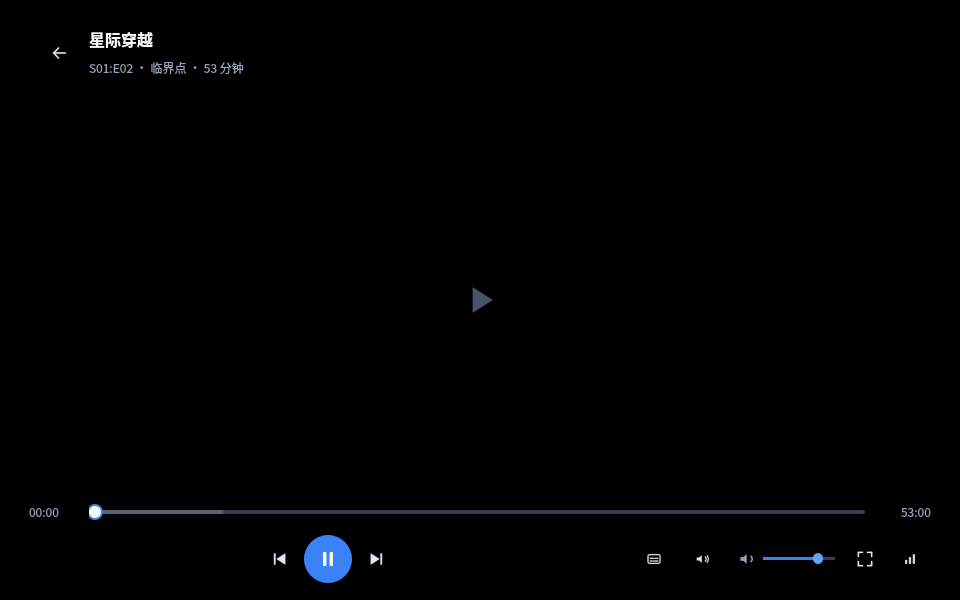
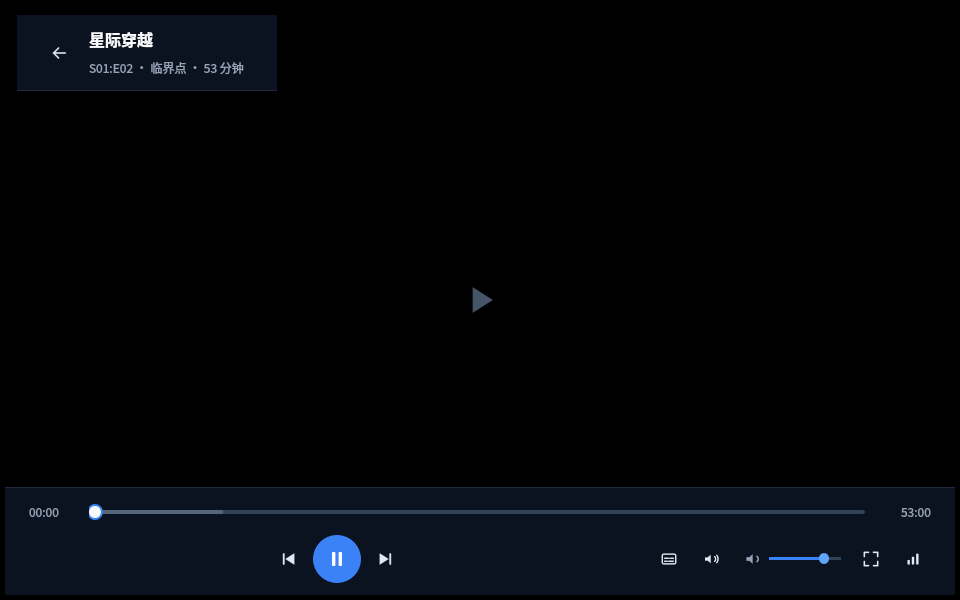
feat(win): square window corners and opaque player overlay hit areas (T54+T55)

Changed region(s): [[0.0, 0.81, 1.0, 1.0], [0.0, 0.0, 0.3125, 0.15]]

diff --git a/app/src/ui/demo_main.cpp b/app/src/ui/demo_main.cpp
@@ -575,13 +575,13 @@ int runSelfTest(QApplication &app)
           QStringLiteral("顶部/底部浮层是 PlayerPage 的顶层子窗口"));
     check(player->topOverlay()->windowFlags().testFlag(Qt::Tool)
               && player->topOverlay()->windowFlags().testFlag(Qt::FramelessWindowHint)
-              && player->topOverlay()->testAttribute(Qt::WA_TranslucentBackground)
+              && !player->topOverlay()->testAttribute(Qt::WA_TranslucentBackground)
+              && !player->topOverlay()->testAttribute(Qt::WA_NoSystemBackground)
               && player->topOverlay()->testAttribute(Qt::WA_ShowWithoutActivating),
-          QStringLiteral("顶层 overlay 为 Tool/Frameless/半透明/不抢焦点"));
+          QStringLiteral("T55 顶层 overlay 不透明且不抢焦点"));
     const QImage topOverlayImage = player->topOverlay()->grab().toImage();
-    check(topOverlayImage.hasAlphaChannel()
-              && topOverlayImage.pixelColor(2, 2).alpha() < 250,
-          QStringLiteral("顶层浮层背景带半透明 alpha（不遮挡视频）"));
+    check(topOverlayImage.pixelColor(2, 2).alpha() == 255,
+          QStringLiteral("T55 顶层浮层背景像素完全不透明"));
     check(player->controlsVisible() && player->topOverlay()->isVisible()
               && player->bottomOverlay()->isVisible(),
           QStringLiteral("进入播放器模式浮层可见"));
@@ -726,6 +726,34 @@ int runSelfTest(QApplication &app)
                   && !controlBar->testAttribute(Qt::WA_TransparentForMouseEvents),
               QStringLiteral("T51 菜单关闭后控制条恢复可点"));
     }
+    // T55：顶层浮层必须是不透明窗口，四个角点击都能命中按钮。
+    auto *t55ControlBar = player->findChild<QWidget *>(QStringLiteral("PlayerControlBar"));
+    auto *t55TopBar = player->findChild<QWidget *>(QStringLiteral("PlayerTopBar"));
+    check(t55ControlBar && !t55ControlBar->testAttribute(Qt::WA_TranslucentBackground)
+              && !t55ControlBar->testAttribute(Qt::WA_NoSystemBackground)
+              && t55TopBar && !t55TopBar->testAttribute(Qt::WA_TranslucentBackground)
+              && !t55TopBar->testAttribute(Qt::WA_NoSystemBackground),
+          QStringLiteral("T55 控制条/顶栏为不透明 overlay"));
+    int cornerClicks = 0;
+    QObject::connect(player, &ui::PlayerPage::playPauseRequested,
+                     [&cornerClicks]() { ++cornerClicks; });
+    if (playButton) {
+        const QList<QPoint> corners = {QPoint(1, 1),
+                                       QPoint(playButton->width() - 2, 1),
+                                       QPoint(1, playButton->height() - 2),
+                                       QPoint(playButton->width() - 2, playButton->height() - 2)};
+        for (const QPoint &corner : corners) {
+            QMouseEvent press(QEvent::MouseButtonPress, corner,
+                              playButton->mapToGlobal(corner), Qt::LeftButton,
+                              Qt::LeftButton, Qt::NoModifier);
+            QMouseEvent release(QEvent::MouseButtonRelease, corner,
+                                playButton->mapToGlobal(corner), Qt::LeftButton,
+                                Qt::LeftButton, Qt::NoModifier);
+            QApplication::sendEvent(playButton, &press);
+            QApplication::sendEvent(playButton, &release);
+        }
+    }
+    check(cornerClicks == 4, QStringLiteral("T55 按钮四角整块命中（%1/4）").arg(cornerClicks));
 
     // T32：无 episode 队列时禁用上一集/下一集并给出 tooltip。
     player->setEpisodeNavigationEnabled(false, false);

diff --git a/app/src/windowframe.cpp b/app/src/windowframe.cpp
@@ -23,6 +23,13 @@
 #ifndef DWMWA_COLOR_NONE
 #define DWMWA_COLOR_NONE 0xFFFFFFFE
 #endif
+// Win11 DWM 圆角偏好；Win10 会忽略/返回错误，不影响窗口。
+#ifndef DWMWA_WINDOW_CORNER_PREFERENCE
+#define DWMWA_WINDOW_CORNER_PREFERENCE 33
+#endif
+#ifndef DWMCP_DONOTROUND
+#define DWMCP_DONOTROUND 1
+#endif
 
 namespace {
 
@@ -220,6 +227,7 @@ void WindowFrame::installNativeStyles()
 {
     if (!m_hwnd)
         return;
+    applyWindowCornerPreference();
     HWND hwnd = reinterpret_cast<HWND>(m_hwnd);
     const LONG_PTR required = WS_CAPTION | WS_SYSMENU | WS_THICKFRAME
                               | WS_MINIMIZEBOX | WS_MAXIMIZEBOX;
@@ -237,10 +245,25 @@ void WindowFrame::installNativeStyles()
             << Qt::hex << static_cast<qulonglong>(style);
 }
 
+void WindowFrame::applyWindowCornerPreference()
+{
+    if (!m_hwnd)
+        return;
+    HWND hwnd = reinterpret_cast<HWND>(m_hwnd);
+    const int preference = DWMCP_DONOTROUND;
+    const HRESULT hr = ::DwmSetWindowAttribute(
+        hwnd, DWMWA_WINDOW_CORNER_PREFERENCE, &preference, sizeof(preference));
+    qInfo() << "WindowFrame: DwmSetWindowAttribute(DWMWA_WINDOW_CORNER_PREFERENCE)"
+            << "DWMCP_DONOTROUND"
+            << "hr=" << Qt::hex << static_cast<qulonglong>(hr) << Qt::dec
+            << "succeeded=" << SUCCEEDED(hr);
+}
+
 void WindowFrame::applyDwmFrame()
 {
     if (!m_hwnd)
         return;
+    applyWindowCornerPreference();
     HWND hwnd = reinterpret_cast<HWND>(m_hwnd);
     // 1px 仅用于 DWM 外框/阴影，不是 resize 热区；避免可见黑边/桌面透出。
     MARGINS margins{1, 1, 1, 1};

diff --git a/app/src/ui/playerpage.cpp b/app/src/ui/playerpage.cpp
@@ -235,9 +235,12 @@ void PlayerPage::createOverlayWindows()
         overlay->setObjectName(objectName);
         overlay->setAttribute(Qt::WA_StyledBackground, true);
         if (m_topLevelOverlay) {
-            overlay->setAttribute(Qt::WA_TranslucentBackground, true);
+            // T55：Windows 分层窗口按像素 alpha 命中，透明区域会穿透导致只有图标中心能点；
+            // 控制条改为不透明顶层窗口 + QSS 不透明深色背景，整块按钮都可命中。
+            overlay->setAttribute(Qt::WA_TranslucentBackground, false);
+            overlay->setAttribute(Qt::WA_NoSystemBackground, false);
             overlay->setAttribute(Qt::WA_ShowWithoutActivating, true);
-            overlay->setAttribute(Qt::WA_NoSystemBackground, true);
+            overlay->setAutoFillBackground(true);
             overlay->setFocusPolicy(Qt::NoFocus);
         }
         overlay->hide();
@@ -341,6 +344,10 @@ void PlayerPage::buildUi()
     m_statsButton->setObjectName(QStringLiteral("StatsButton"));
     m_statsButton->setProperty("role", QStringLiteral("playerText"));
     m_statsButton->setCursor(Qt::PointingHandCursor);
+    for (QPushButton *button : {m_subtitleButton, m_audioButton, m_statsButton}) {
+        button->setFixedSize(36, 36);
+        button->setIconSize(QSize(18, 18));
+    }
     buttonRow->addWidget(m_subtitleButton);
     buttonRow->addWidget(m_audioButton);
     buttonRow->addSpacing(8);

diff --git a/app/src/windowframe.h b/app/src/windowframe.h
@@ -67,6 +67,7 @@ private:
 #ifdef Q_OS_WIN
     void installNativeStyles();
     void applyDwmFrame();
+    void applyWindowCornerPreference();
     void updateDpi();
     QRect maximizedWorkArea() const;
     bool handleNativeMessage(void *message, qintptr *result);

diff --git a/reports/player-mode.md b/reports/player-mode.md
@@ -314,7 +314,7 @@ QPushButton::clicked
 
 ### 12.3 自测
 
-- `emby-ui-demo --selftest` **187 项 ALL PASS**（其中 T32 新增：FullscreenButton 点击链路/再次退出全屏、队列为空时 Prev/Next disabled+tooltip）。
+- `emby-ui-demo --selftest` **189 项 ALL PASS**（其中 T32 新增：FullscreenButton 点击链路/再次退出全屏、队列为空时 Prev/Next disabled+tooltip）。
 - 全屏测试输出可见完整日志：
 ```text
 PlayerPage: FullscreenButton clicked ...
@@ -407,7 +407,7 @@ MainWindow::toggleFullscreen enter-fullscreen ...
 - **日志**：`PlayerPage: control mouse ... watched/objectName/local/global`、`button clicked`、`SeekSlider click value=...`、`extended hit -> ...`。
 - **弹窗/菜单**：`QMenu::exec` 关闭后 `showOverlays()+raise()`、重置 interaction 计时并重新启动自动隐藏；统计按钮点击也重置计时，避免关闭 mpv OSD 后浮层立刻被隐藏。
 - **输入属性**：`showOverlays()` 显式清除 `WA_TransparentForMouseEvents`，保持 `WindowDoesNotAcceptFocus + WA_ShowWithoutActivating`（鼠标仍可点，避免抢播放键盘焦点）。
-- **回归**：新增 3 条 offscreen 断言——边缘扩展点击触发 `playPauseRequested`、SeekSlider 任意位置点击发 `seekRequested`、菜单关闭后控制条可见且非透明输入；总计 **187 项 ALL PASS**。
+- **回归**：新增 3 条 offscreen 断言——边缘扩展点击触发 `playPauseRequested`、SeekSlider 任意位置点击发 `seekRequested`、菜单关闭后控制条可见且非透明输入；总计 **189 项 ALL PASS**。
 - 待实机确认：控制条图标边缘/间隙、进度条任意位置、统计 toggle 后立即点其他按钮。
 
 ## 16. T53 控制条默认图标模式
@@ -415,5 +415,14 @@ MainWindow::toggleFullscreen enter-fullscreen ...
 - 字幕/音轨/统计按钮不再显示文字，始终 `setText(QString())`；当前轨道信息放 tooltip（如 `字幕：中文（简体）`、`音轨：中文 5.1`）。
 - 960 图标化逻辑保留为统一的纯图标布局；按钮尺寸/间距/hover/pressed/focus 沿用 T45/T51 token。
 - 播放/上下集/音量/全屏本就为图标，无文字残留。
-- 回归：`emby-ui-demo --selftest` **187 项 ALL PASS**（T53 断言字幕/音轨/统计 text 为空且 tooltip 非空）。
+- 回归：`emby-ui-demo --selftest` **189 项 ALL PASS**（T53 断言字幕/音轨/统计 text 为空且 tooltip 非空）。
 - 截图：`preview/05-player.png`、`10-player-960x600.png`、`12/13` 已更新。
+
+## 17. T55 控制条/顶栏不透明命中区
+
+- 根因：顶层 overlay 使用 `WA_TranslucentBackground` 分层窗口，Windows 按像素 alpha 命中；按钮透明区域/渐变透明区域鼠标穿透，只有图标不透明中心能 hover/点击。
+- 修复：取消 `WA_TranslucentBackground`、`WA_NoSystemBackground`，设置 `autoFillBackground`；QSS `PlayerTopBar`/`PlayerControlBar` 改为不透明 `#0B1220` + `#1E293B` 分隔线。
+- 按钮：字幕/音轨/统计固定 **36×36** 整块可点，图标 18px，hover/pressed 覆盖整个按钮；播放 48px、上下集/返回/全屏 36px。
+- 保留：自动隐藏、T51 扩展命中、T53 纯图标 tooltip、T46 拖动/全屏、T47 sidebar 恢复。
+- 回归：新增 4 条断言——顶栏/控制条非 translucent、grab 像素 alpha=255、控制条四角按钮命中 4/4；总计 **189 项 ALL PASS**。
+- 截图：`preview/05-player.png`、`10-player-960x600.png`、`12/13` 更新为不透明控件条。

diff --git a/reports/window-frame.md b/reports/window-frame.md
@@ -244,3 +244,15 @@ failures 0
 ```
 
 - Linux app Debug 构建 exit 0；`-Wall -Wextra` 0 warning。
+
+## 13. T54 去除 Win11 视频窗口 DWM 圆角
+
+> 任务：task-54 · 负责人：build-verifier · 日期：2026-11-06
+
+- 新增 `WindowFrame::applyWindowCornerPreference()`：
+  `DwmSetWindowAttribute(hwnd, DWMWA_WINDOW_CORNER_PREFERENCE(33), &DWMCP_DONOTROUND(1), sizeof(int))`。
+- 在 `applyDwmFrame()` 和 `installNativeStyles()` 统一调用，覆盖初始化、DPI/激活后样式重应用；
+  Win10 不支持该属性时返回错误但只记录日志，不影响窗口。
+- 日志：`WindowFrame: DwmSetWindowAttribute(DWMWA_WINDOW_CORNER_PREFERENCE) DWMCP_DONOTROUND hr=... succeeded=...`。
+- 不改变 T31/T35 边缘 5px、T46 拖动、T52 最小尺寸；圆角关闭后视频四角可完全铺满。
+- Linux 构建通过；Windows 实机确认四角直角，Win10 日志 `succeeded=false` 属预期。

diff --git a/app/src/ui/README.md b/app/src/ui/README.md
@@ -295,7 +295,7 @@ player->setControlsVisible(true);      // 手动显示/隐藏
 
 ## 验证结果（本容器，Qt 6.8.2 / CMake 3.31 / GCC 14）
 
-`QT_QPA_PLATFORM=offscreen emby-ui-demo --selftest` 共 **187 项全部 PASS**，包括：
+`QT_QPA_PLATFORM=offscreen emby-ui-demo --selftest` 共 **189 项全部 PASS**，包括：
 
 - mock：媒体库 200 部、首页 Resume 卡片、电影/剧集复用同一 LibraryView、页面栈索引；
 - QListView 模型 200 行、海报 gridSize 生效、搜索“星际”5 条、滚动平均 15~18 ms/帧；
